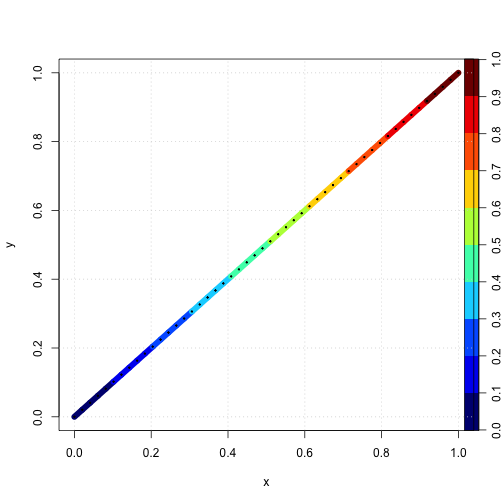
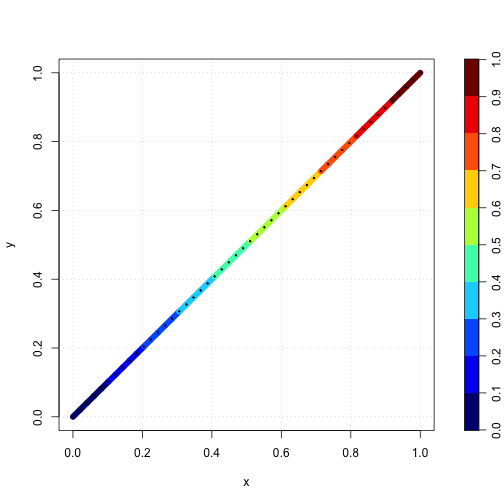
traj

diff --git a/_posts/2014-01-15-colourizing-along-a-trajectory.md b/_posts/2014-01-15-colourizing-along-a-trajectory.md
@@ -45,7 +45,6 @@ mar <- par('mar')
 
 palette <- oceColorsJet(npalette)
 drawPalette(zlim = zlim, col = palette)
-par(mar=mar)
 plot(x, y, type = "l")
 grid()
 segments(head(x, -1), head(y, -1),
@@ -62,10 +61,6 @@ points(x, y, pch = 20, cex=1/3)
 # Results
 
 The graph shows that this works reasonably well.  The dots will probably not be useful in an actual application, and are used here just to indicate colourization in groups.
-
-[![graph]({{ site.url }}/assets/colorline-thumbnail.png)]({{ site.url }}/assets/colorline.png)
-
-The method works well, and is flexible in terms of colour schemes.
 
 # Exercises
 
